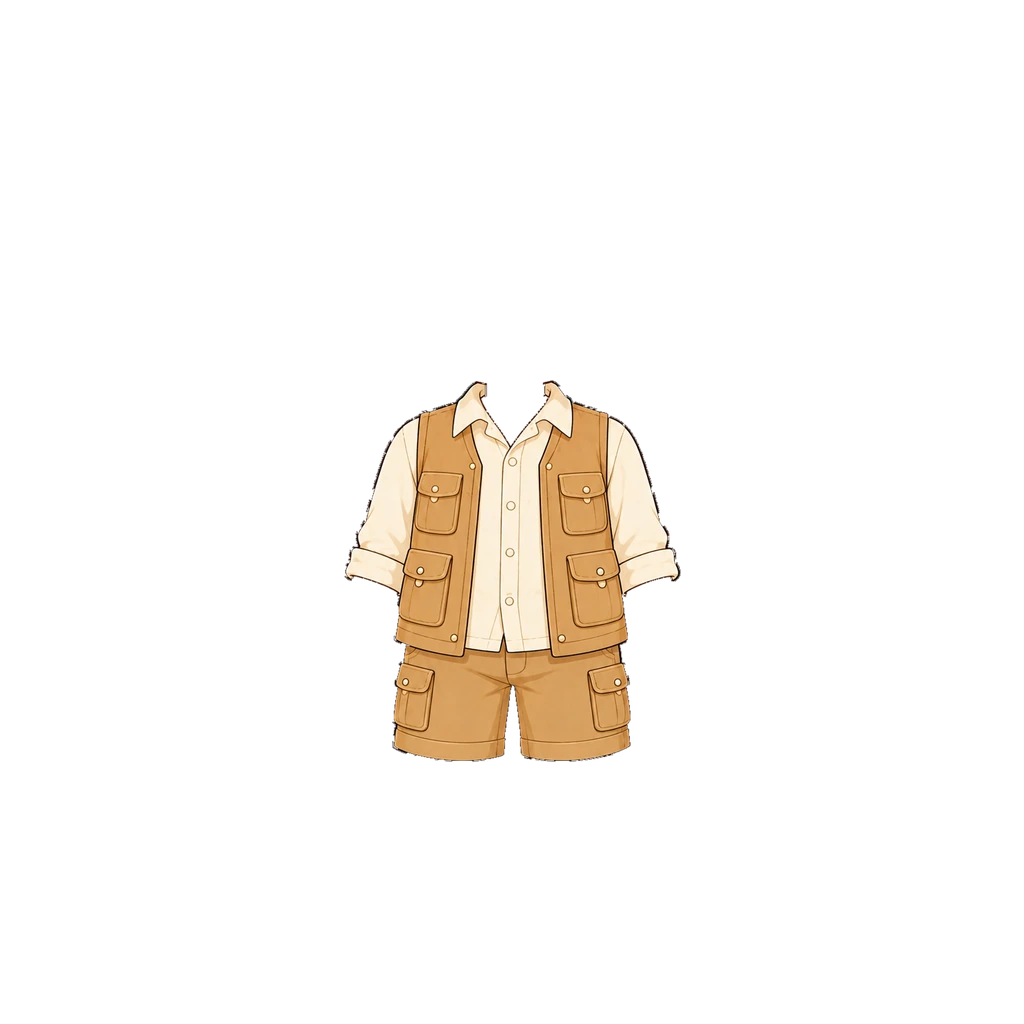
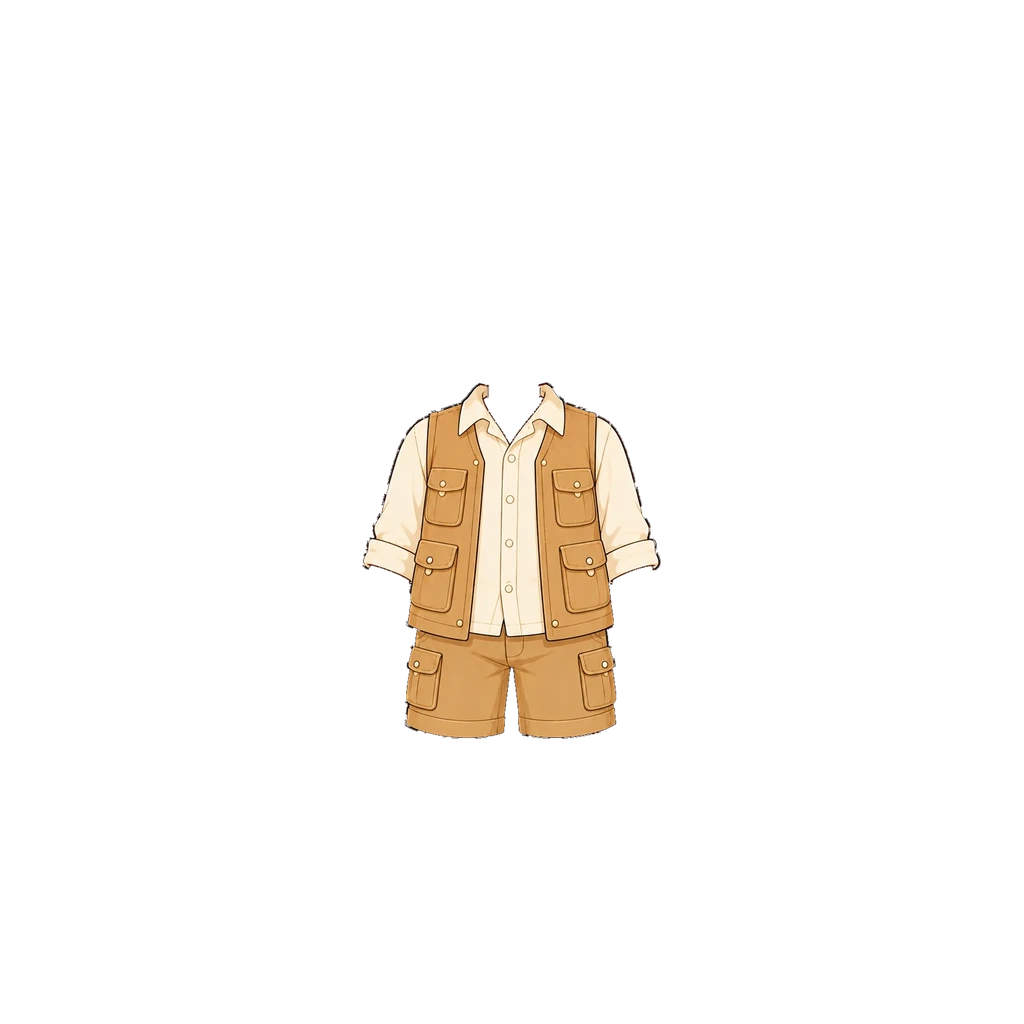
사파리 남아 옷을 한 단 줄였다 (#639)
화면에서 보니 옷이 조금 컸다(사용자 지적).
배율 0.62 · 가로 1.12배 · 깃 y380 → 0.58 · 1.06 · y382
탑재 상자 (344,380)-(680,761) → (362,382)-(660,738)

어깨 노출은 오히려 432 → 382 픽셀로 줄었다 — 폭이 줄면서 소매가 팔을 더 정확히 따라간다.
0.56·1.04 까지 줄이면 947 로 튀어 어깨 위에 맨살이 다시 보인다. 여기가 바닥이다.

같은 파일명에 덮어썼으므로 경로에 ?v=2 를 붙여 기존 기기 캐시를 끊는다.

Claude-Session: https://claude.ai/code/session_018maNuYqDfFyRSe9uKpZhPR

Changed region(s): [[0.3125, 0.375, 0.6875, 0.75]]

diff --git a/src/data/avatarEquipment.js b/src/data/avatarEquipment.js
@@ -169,10 +169,10 @@ export const AVATAR_CATALOG = [
   /* [2026-08-20] 남아 원화가 들어와 남녀 공용이 됐다 — 그림이 성별로 갈리는 첫 아이템.
        남아: 크림 셔츠 + 탄색 조끼 + 카고 반바지 · 여아: 블라우스 + 반바지
      상점 카드 그림도 갈린다(thumbGirl) — 남아에게 여아 블라우스를 보여 주면 헷갈린다.
-     남아 탑재값은 배율 0.62 · 가로만 1.12배 · 깃 위끝 y380 (art-src/README 참고).
+     남아 탑재값은 배율 0.58 · 가로만 1.06배 · 깃 위끝 y382 (art-src/README 참고).
      옷걸이에 건 모양이라 어깨선이 처져 있어서, 깃을 기본 반팔티 자리(y411)에 맞추면
      어깨 위에 맨살 띠가 남는다. 세로를 올려야 없어진다. */
-  { id: "top_vest",       slot: "top",   label: "사파리 옷",   emoji: "🦺", price: 150, rarity: "rare",   theme: "adventure", coversBottom: true, img: "assets/avatar/top/safari-outfit-boy.webp", imgGirl: "assets/avatar/top/safari-outfit-girl.webp?v=2", thumb: "assets/avatar/thumb/top_vest.webp", thumbGirl: "assets/avatar/thumb/top_vest-girl.webp" },
+  { id: "top_vest",       slot: "top",   label: "사파리 옷",   emoji: "🦺", price: 150, rarity: "rare",   theme: "adventure", coversBottom: true, img: "assets/avatar/top/safari-outfit-boy.webp?v=2", imgGirl: "assets/avatar/top/safari-outfit-girl.webp?v=2", thumb: "assets/avatar/thumb/top_vest.webp", thumbGirl: "assets/avatar/thumb/top_vest-girl.webp" },
 
   /* ── 딸기 소풍 · 별빛 마법사 (여아) — 사용자 원화 2026-08-19 ─────────────
      이 두 벌은 원화를 **베이스 v7 여아가 입은 전신 그림**으로 받았다. 그래서 배율을
